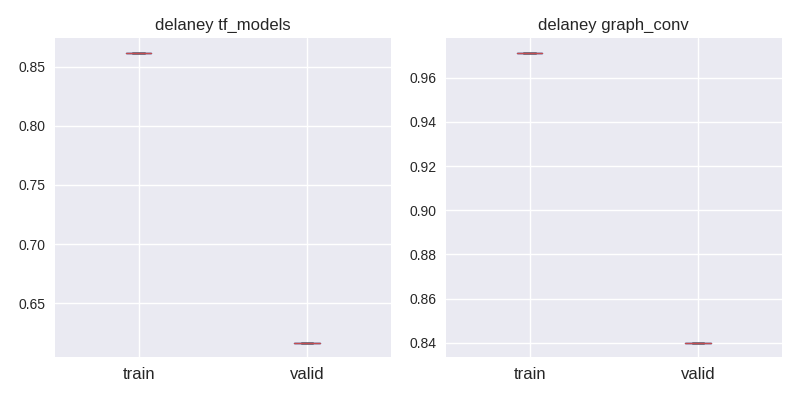
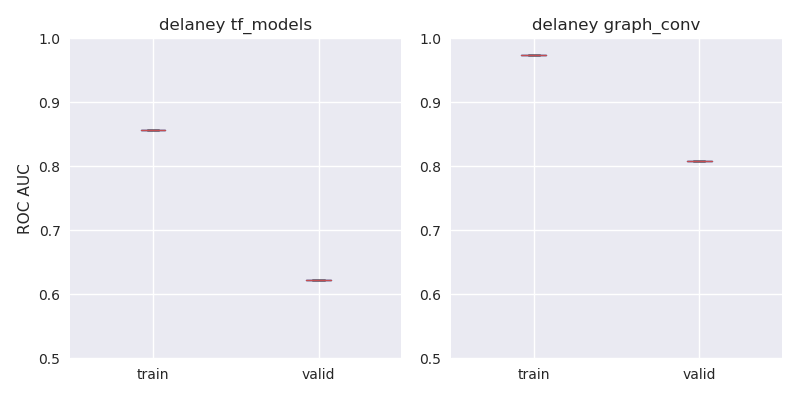
update delaney ylim
Former-commit-id: 2573856b84b0ae88e62fb7ae97914972c40227e5
Former-commit-id: 7b56ce83638c92d01e7cd408f45e9f89034b49a8
Former-commit-id: 0c3ecaf00cda55649d48b7f794489da65f5f30f8

diff --git a/plot.py b/plot.py
@@ -3,6 +3,8 @@ import matplotlib.pyplot as plt
 import seaborn as sns
 import os
 
+sns.set()
+
 def main():
     for dataset in ['chembl', 'pcba', 'tox21', 'delaney']:
         plt.figure(figsize=(8,4))
@@ -18,7 +20,7 @@ def main():
                 if i == 1:
                     plt.ylabel('Pearson R-squared')
                 plt.ylim(0.,1.)
-            elif dataset in ['pcba', 'tox21']:
+            elif dataset in ['pcba', 'tox21', 'delaney']:
                 if i == 1:
                     plt.ylabel('ROC AUC')
                 plt.ylim(0.5, 1.0)
